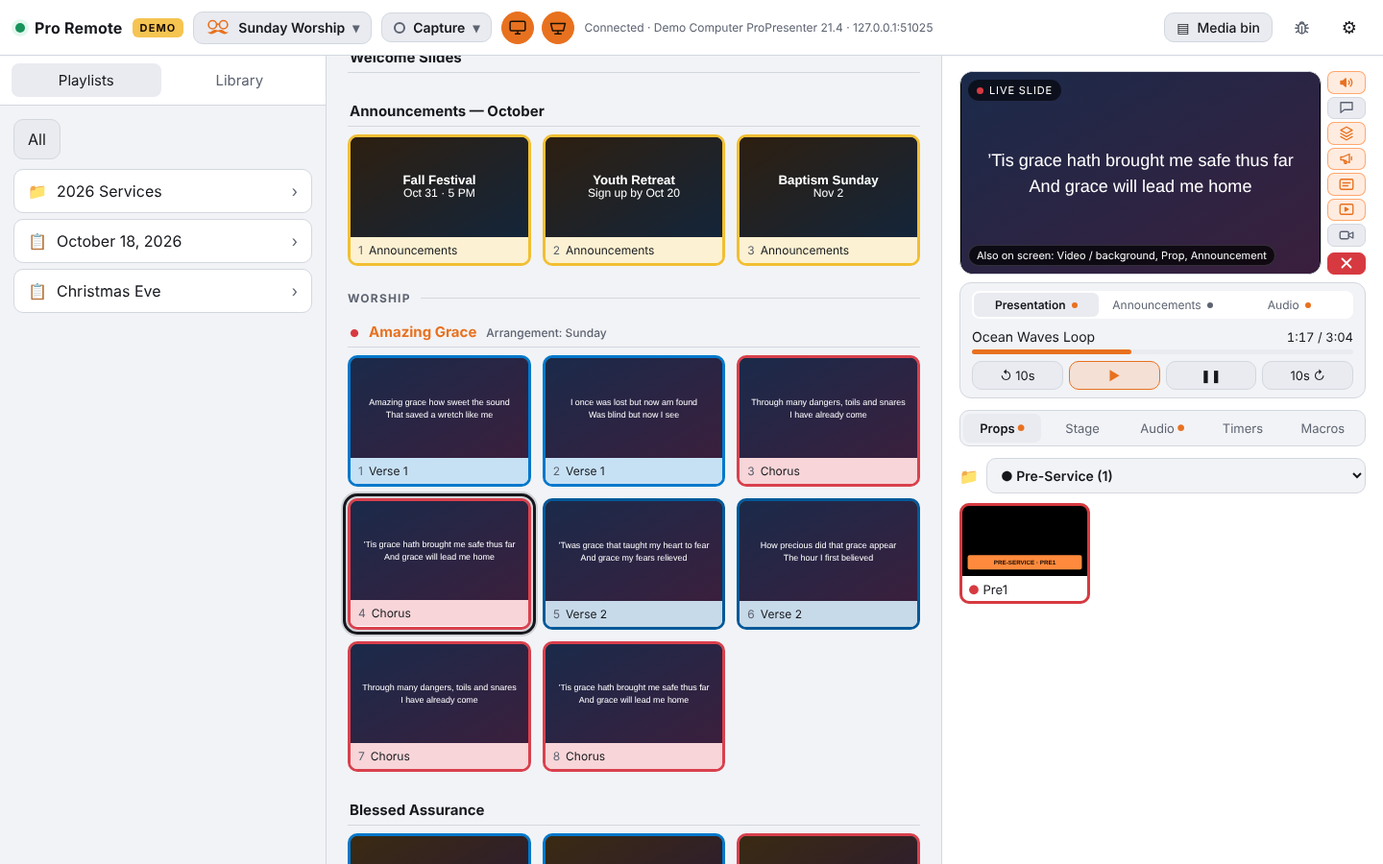
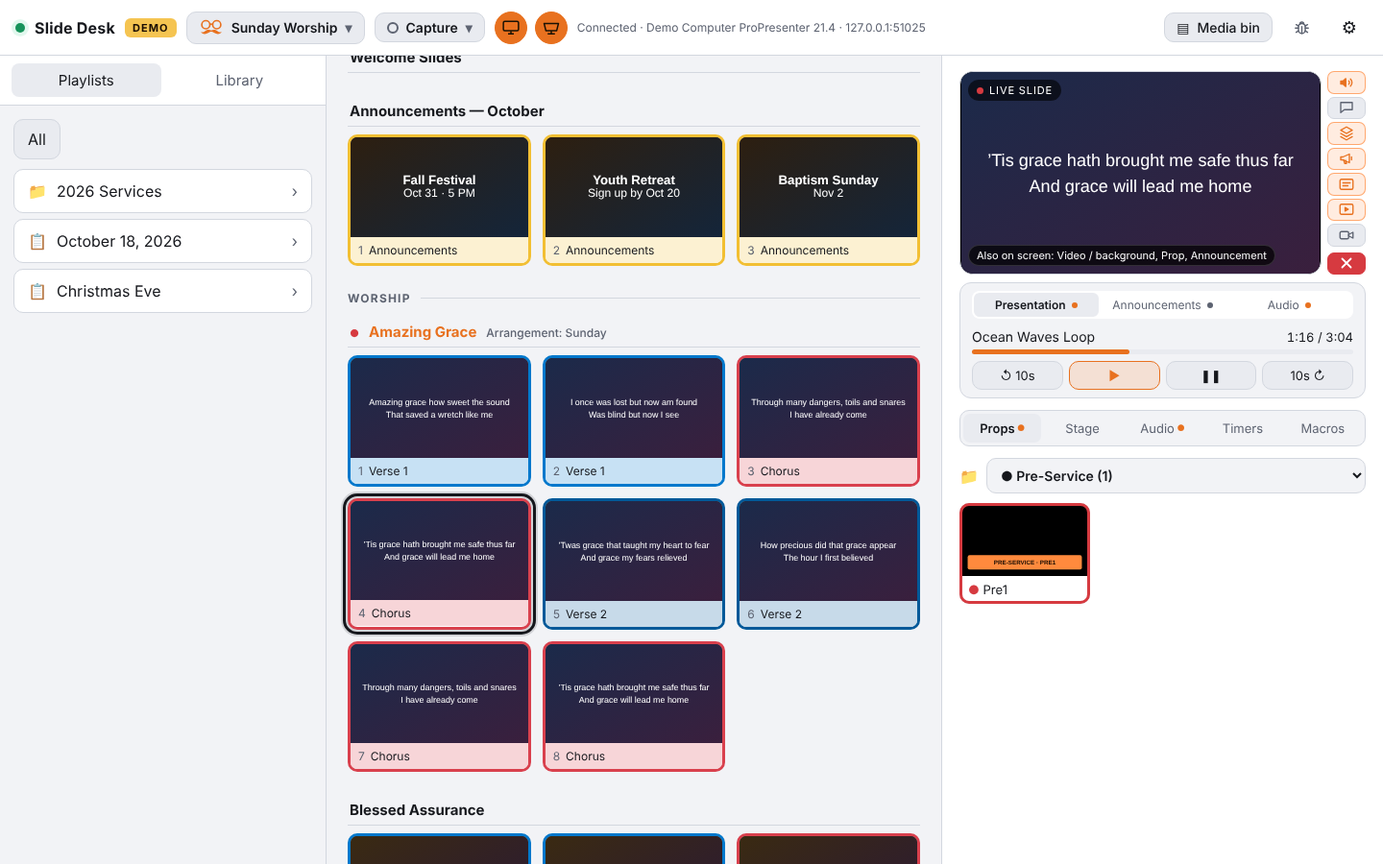
1.2.1: Pro Remote is now Slide Desk
Claude-Session: https://claude.ai/code/session_01Dq74AqC8JHTZvVWnvzxfSY

Changed region(s): [[0.2812, 0.0, 0.5938, 0.0622], [0.0312, 0.0, 0.25, 0.0622], [0.625, 0.0311, 0.6562, 0.0622]]

diff --git a/server.js b/server.js
@@ -1,5 +1,5 @@
 #!/usr/bin/env node
-// Pro Remote · Copyright (C) 2026 Gavin Peppers · Contributors: Crossroads Community Church, Athens, GA
+// Slide Desk · Copyright (C) 2026 Gavin Peppers · Contributors: Crossroads Community Church, Athens, GA
 // SPDX-License-Identifier: GPL-3.0-or-later  (see LICENSE.txt and COPYRIGHT.txt)
 /*
  * ProPresenter Network Remote
@@ -18,12 +18,14 @@ const path = require('path');
 const os = require('os');
 
 // The demo keeps its own settings file so it never touches your real setup
-const APP_VERSION = '1.2';   // keep in step with PAGE_VERSION in public/index.html
+const APP_VERSION = '1.2.1';   // keep in step with PAGE_VERSION in public/index.html
 // Where settings and saved reports live: next to this file, or (for the Mac app) in the user's
-// Application Support folder, passed in as PRO_REMOTE_DATA
-const DATA_DIR = process.env.PRO_REMOTE_DATA || __dirname;
-const CONFIG_FILE = process.env.PRO_REMOTE_CONFIG || path.join(DATA_DIR, 'config.json');
-const DEMO = !!process.env.PRO_REMOTE_DEMO;
+// Application Support folder, passed in as SLIDE_DESK_DATA
+// (Slide Desk used to be called Pro Remote: the old PRO_REMOTE_* names still work)
+const env = name => process.env['SLIDE_DESK_' + name] ?? process.env['PRO_REMOTE_' + name];
+const DATA_DIR = env('DATA') || __dirname;
+const CONFIG_FILE = env('CONFIG') || path.join(DATA_DIR, 'config.json');
+const DEMO = !!env('DEMO');
 const DEFAULTS = {
   proHost: '127.0.0.1', // where ProPresenter is running
   proPort: 1025,        // ProPresenter > Settings > Network > Port
@@ -57,7 +59,7 @@ if (config.pin && !config.users.length) {
   config.pinMoved = true;
 }
 if ('pin' in config) { delete config.pin; saveConfig(); }
-// A new install starts protected: an Admin with a made-up PIN, shown in the Pro Remote window
+// A new install starts protected: an Admin with a made-up PIN, shown in the Slide Desk window
 // until it's changed. (Not a fixed default PIN: that would be printed for anyone to read.)
 if (firstRun && !DEMO && !config.users.length) {
   const pin = String(require('crypto').randomInt(100000, 1000000));
@@ -341,12 +343,12 @@ const reports = (() => {
   function asText(r) {
     const p = r.page || {}, live = p.live || {};
     const lines = [
-      `${r.demo ? '[DEMO] ' : ''}Pro Remote problem report`, `When: ${r.when}`, '',
+      `${r.demo ? '[DEMO] ' : ''}Slide Desk problem report`, `When: ${r.when}`, '',
       'WHAT HAPPENED', r.what || '(not filled in)', '',
       'WHAT THEY WERE TRYING TO DO', r.trying || '(not filled in)', '',
       `From: ${r.name || '(no name)'}${r.email ? ' <' + r.email + '>' : ''}`, '',
       'SETUP',
-      `Pro Remote ${r.remote.appVersion}`, `Helper computer: ${r.remote.helperComputer}`,
+      `Slide Desk ${r.remote.appVersion}`, `Helper computer: ${r.remote.helperComputer}`,
       r.remote.signedInAs ? `Signed in as: ${r.remote.signedInAs}` : null,
       `ProPresenter: ${r.remote.proPresenter}`, `Connected: ${r.remote.connected} · Updates: ${r.remote.liveUpdates}`,
       r.remote.helperError ? `Helper error: ${r.remote.helperError}` : '',
@@ -365,7 +367,7 @@ const reports = (() => {
     const r = JSON.parse(fs.readFileSync(path.join(OUTBOX, id + '.json'), 'utf8'));
     const shotFile = path.join(OUTBOX, id + '.jpg');
     const shot = fs.existsSync(shotFile) ? fs.readFileSync(shotFile) : null;
-    const subject = `${r.demo ? '[DEMO] ' : ''}Pro Remote problem: ${(r.what || 'no description').replace(/\s+/g, ' ').slice(0, 70)}`;
+    const subject = `${r.demo ? '[DEMO] ' : ''}Slide Desk problem: ${(r.what || 'no description').replace(/\s+/g, ' ').slice(0, 70)}`;
     const text = asText(r);
     const ctrl = new AbortController(), t = setTimeout(() => ctrl.abort(), 30000);
     try {
@@ -378,6 +380,7 @@ const reports = (() => {
         fd.append('Report', text);
         if (shot) fd.append('attachment', new Blob([shot], { type: 'image/jpeg' }), `screenshot-${id}.jpg`);
         res = await fetch(s.endpoint || `https://formsubmit.co/${encodeURIComponent(s.sendTo)}`, { method: 'POST', body: fd, signal: ctrl.signal, redirect: 'manual',
+          // (kept from when Slide Desk was called Pro Remote: the email service is set up for this address)
           headers: { Referer: 'http://pro-remote.local/', Origin: 'http://pro-remote.local' } });
         return res.status < 400;
       }
@@ -385,7 +388,7 @@ const reports = (() => {
         // Web3Forms free plan can't attach files: the screenshot stays in the reports folder on this computer
         res = await fetch('https://api.web3forms.com/submit', { method: 'POST', signal: ctrl.signal,
           headers: { 'Content-Type': 'application/json', Accept: 'application/json' },
-          body: JSON.stringify({ access_key: s.accessKey, subject, from_name: 'Pro Remote', replyto: r.email || undefined,
+          body: JSON.stringify({ access_key: s.accessKey, subject, from_name: 'Slide Desk', replyto: r.email || undefined,
             message: text + (shot ? `\n\n(Screenshot saved on the helper computer: reports/sent/${id}.jpg)` : '') }) });
         return res.ok;
       }
@@ -469,8 +472,8 @@ function readBody(req, limit = 1e6) {
 const LEVELS = ['viewer', 'slides', 'operator', 'admin'];
 const LEVEL_NAMES = { viewer: 'Viewer', slides: 'Slides only', operator: 'Operator', admin: 'Admin' };
 const lv = level => Math.max(0, LEVELS.indexOf(level));
-const SIGN_OUT_AFTER = Number(process.env.PRO_REMOTE_IDLE_MS) || 3 * 24 * 3600e3;   // 3 days without use
-const LOCAL_ADMIN = !process.env.PRO_REMOTE_NO_LOCAL_ADMIN;                         // (switched off only in tests)
+const SIGN_OUT_AFTER = Number(env('IDLE_MS')) || 3 * 24 * 3600e3;   // 3 days without use
+const LOCAL_ADMIN = !env('NO_LOCAL_ADMIN');                              // (switched off only in tests)
 const SESSIONS_FILE = CONFIG_FILE.replace(/\.json$/i, '') + '-sessions.json';
 
 let sessions = {};   // token -> { name, lastActive }
@@ -545,7 +548,7 @@ function needLevel(method, t) {
 // Wrong PINs: after 5 from one computer, it waits a minute
 const failedSignIns = new Map();   // ip -> { n, until }
 
-// Adding and changing people (from the Pro Remote window, or by an Admin in Settings)
+// Adding and changing people (from the Slide Desk window, or by an Admin in Settings)
 function changeUsers(op, a, by) {
   const users = config.users;
   const name = String(a.name || '').trim().replace(/\s+/g, ' ');
@@ -1011,8 +1014,8 @@ if (commandsOn) {
 
 server.listen(config.remotePort, '0.0.0.0', () => {
   const addrs = lanAddresses();
-  console.log(DEMO ? '\n  Pro Remote DEMO is running (pretend ProPresenter with sample songs, nothing real is controlled)\n'
-                   : `\n  Pro Remote ${APP_VERSION} is running\n`);
+  console.log(DEMO ? '\n  Slide Desk DEMO is running (pretend ProPresenter with sample songs, nothing real is controlled)\n'
+                   : `\n  Slide Desk ${APP_VERSION} is running\n`);
   console.log(`  Talking to ProPresenter at ${config.proHost}:${config.proPort}`);
   console.log('  Open the remote from any computer on this network:');
   for (const a of addrs) console.log(`     http://${a}:${config.remotePort}`);

diff --git a/public/index.html b/public/index.html
@@ -1,5 +1,5 @@
 <!doctype html>
-<!-- Pro Remote · Copyright (C) 2026 Gavin Peppers · Contributors: Crossroads Community Church, Athens, GA · SPDX-License-Identifier: GPL-3.0-or-later -->
+<!-- Slide Desk · Copyright (C) 2026 Gavin Peppers · Contributors: Crossroads Community Church, Athens, GA · SPDX-License-Identifier: GPL-3.0-or-later -->
 <html lang="en">
 <head>
 <meta charset="utf-8">
@@ -23,11 +23,11 @@
 </script>
 <meta name="apple-mobile-web-app-capable" content="yes">
 <meta name="apple-mobile-web-app-status-bar-style" content="black-translucent">
-<meta name="apple-mobile-web-app-title" content="Pro Remote">
+<meta name="apple-mobile-web-app-title" content="Slide Desk">
 <link rel="manifest" href="manifest.webmanifest">
 <link rel="icon" href="icon.svg">
 <link rel="apple-touch-icon" href="icon-180.png">
-<title>Pro Remote</title>
+<title>Slide Desk</title>
 <style>
   :root {
     --bg: #0e0f12; --panel: #17191e; --panel-2: #1f2229; --line: #2a2e37;
@@ -502,7 +502,7 @@
 <div id="staleBar" class="stale-bar" hidden>The remote has been updated. <button onclick="location.reload()">Refresh to get the new version</button></div>
 <header>
   <span class="dot" id="dot"></span>
-  <h1>Pro Remote</h1>
+  <h1>Slide Desk</h1>
   <span id="demoTag" class="demo-tag" hidden title="This is a demo: a pretend ProPresenter with sample songs. Nothing real is being controlled.">DEMO</span>
   <div class="look-wrap">
     <button id="lookBtn" class="look-btn" title="Looks" aria-haspopup="true" aria-expanded="false">
@@ -701,7 +701,7 @@
       <div class="rep-fallback" id="repFallback" hidden>
         <button id="repCopy">Copy report</button>
         <a class="btn-like" id="repMail" hidden>Open in email app</a>
-        <a class="btn-like" id="repShotDl" download="pro-remote-screenshot.jpg" hidden>Save screenshot</a>
+        <a class="btn-like" id="repShotDl" download="slide-desk-screenshot.jpg" hidden>Save screenshot</a>
       </div>
       <div class="actions"><button class="primary" id="repClose">Done</button></div>
     </div>
@@ -769,7 +769,7 @@
       <div class="hk-list" id="hkList"></div>
       <button id="hkReset" style="margin-top:8px">Reset hotkeys</button>
       </details>
-    <p class="disclaimer"><b>Pro Remote 1.2</b> · Pro Remote is an independent, open-source project (GNU GPL v3). It is not made, supported or endorsed by Renewed Vision, and is not affiliated with or in partnership with them. ProPresenter is a trademark of Renewed Vision. For help with Pro Remote, use the bug button, not Renewed Vision support.</p>
+    <p class="disclaimer"><b>Slide Desk 1.2.1</b> · Slide Desk is an independent, open-source project (GNU GPL v3). It is not made, supported or endorsed by Renewed Vision, and is not affiliated with or in partnership with them. ProPresenter is a trademark of Renewed Vision. For help with Slide Desk, use the bug button, not Renewed Vision support.</p>
     <div class="actions">
       <button id="settingsCancel">Cancel</button>
       <button class="primary" id="settingsSave">Save</button>
@@ -822,12 +822,12 @@
     <svg class="signin-icon" aria-hidden="true" xmlns="http://www.w3.org/2000/svg" viewBox="0 0 1024 1024"><defs><linearGradient id="signinBg" x1="0" y1="0" x2="0" y2="1"><stop offset="0" stop-color="#ffa45c"/><stop offset="1" stop-color="#ec5f16"/></linearGradient></defs><rect x="100" y="100" width="824" height="824" rx="185" fill="url(#signinBg)"/><rect x="290" y="226" width="460" height="290" rx="34" fill="#1a1205" opacity=".22"/>
 <rect x="232" y="288" width="460" height="290" rx="34" fill="#1b1d23"/>
 <rect x="282" y="364" width="280" height="30" rx="15" fill="#fff"/><rect x="282" y="424" width="200" height="30" rx="15" fill="#fff" opacity=".55"/><circle cx="632" cy="662" r="132" fill="#fff"/><path d="M598 602 L678 662 L598 722 Z" fill="#ec5f16" stroke="#ec5f16" stroke-width="22" stroke-linejoin="round"/><path d="M777.8 548.1 A185 185 0 0 1 777.8 775.9" fill="none" stroke="#fff" stroke-width="30" stroke-linecap="round" opacity="1"/><path d="M825.1 511.2 A245 245 0 0 1 825.1 812.8" fill="none" stroke="#fff" stroke-width="30" stroke-linecap="round" opacity="0.55"/></svg>
-    <h2 id="signinTitle">Pro Remote</h2>
+    <h2 id="signinTitle">Slide Desk</h2>
     <p class="signin-why" id="pinWhy">Type your PIN to sign in.</p>
     <input id="pinInput" type="password" inputmode="numeric" autocomplete="off" aria-label="Your PIN" placeholder="PIN">
     <div class="small" id="pinErr"></div>
     <button class="primary" id="pinSubmit">Sign in</button>
-    <p class="muted small signin-help">Forgot your PIN or don't have one? Ask your tech lead. Everyone's PIN is listed in the Pro Remote window on the computer running the remote (type <b>users</b> there).</p>
+    <p class="muted small signin-help">Forgot your PIN or don't have one? Ask your tech lead. Everyone's PIN is listed in the Slide Desk window on the computer running the remote (type <b>users</b> there).</p>
   </div>
 </div>
 
@@ -861,7 +861,7 @@
     if (/trigger|\/clear|\/(next|previous)$|\/operation|\/(start|stop|reset)$|\/stage\/screen\/[^/]+\/layout\/[^/?]+|\/transport\/[^/]+\/(play|pause|skip_forward|skip_backward|go_to_end)/.test(t)) return 'operator';
     return 'viewer';
   }
-  const PAGE_VERSION = '1.2';   // must match APP_VERSION in server.js
+  const PAGE_VERSION = '1.2.1';   // must match APP_VERSION in server.js
   let live = {};               // latest state from server
   let pres = null;             // active presentation detail
   let presUuid = null;
@@ -3114,7 +3114,7 @@
     };
     const mail = $('#repMail');
     mail.hidden = !fallback.sendTo;
-    if (fallback.sendTo) mail.href = `mailto:${fallback.sendTo}?subject=${encodeURIComponent('Pro Remote problem report')}&body=${encodeURIComponent(fallback.text.slice(0, 1800))}`;
+    if (fallback.sendTo) mail.href = `mailto:${fallback.sendTo}?subject=${encodeURIComponent('Slide Desk problem report')}&body=${encodeURIComponent(fallback.text.slice(0, 1800))}`;
     const dl = $('#repShotDl');
     dl.hidden = !fallback.shot; if (fallback.shot) dl.href = fallback.shot;
   }
@@ -3367,7 +3367,7 @@
 
   // ---------- live updates ----------
   let es;
-  // This remote checks in every 15 s so the Pro Remote window knows it's still open
+  // This remote checks in every 15 s so the Slide Desk window knows it's still open
   // (a computer that goes to sleep or drops off the network is noticed within a minute).
   const cid = Math.random().toString(36).slice(2, 10);
   // Pressing anything counts as using the remote (after 3 days without use it asks for the PIN again)

diff --git a/demo/start-demo.js b/demo/start-demo.js
@@ -1,8 +1,8 @@
 #!/usr/bin/env node
-// Pro Remote · Copyright (C) 2026 Gavin Peppers · Contributors: Crossroads Community Church, Athens, GA
+// Slide Desk · Copyright (C) 2026 Gavin Peppers · Contributors: Crossroads Community Church, Athens, GA
 // SPDX-License-Identifier: GPL-3.0-or-later  (see LICENSE.txt and COPYRIGHT.txt)
 /*
- * Pro Remote DEMO: runs a pretend ProPresenter (sample songs, playlists, props, Looks, media)
+ * Slide Desk DEMO: runs a pretend ProPresenter (sample songs, playlists, props, Looks, media)
  * and the real remote pointed at it. Nothing real is controlled. Uses its own settings file.
  * Run:  node demo/start-demo.js   (or double-click "Start Demo")
  */
@@ -54,12 +54,12 @@ fake.on('error', e => {
 
 fake.listen(FAKE_PORT, '127.0.0.1', () => {
   Object.assign(process.env, {
-    PRO_REMOTE_DEMO: '1',
+    SLIDE_DESK_DEMO: '1',
     PRO_HOST: '127.0.0.1',
     PRO_PORT: String(FAKE_PORT),
     REMOTE_PORT: String(REMOTE_PORT),
     REMOTE_PIN: '',
-    PRO_REMOTE_CONFIG: path.join(__dirname, 'demo-config.json'),
+    SLIDE_DESK_CONFIG: path.join(__dirname, 'demo-config.json'),
     OPEN_BROWSER: '1'
   });
   require('../server.js');

diff --git a/demo/fake-propresenter.js b/demo/fake-propresenter.js
@@ -1,7 +1,7 @@
-// Pro Remote · Copyright (C) 2026 Gavin Peppers · Contributors: Crossroads Community Church, Athens, GA
+// Slide Desk · Copyright (C) 2026 Gavin Peppers · Contributors: Crossroads Community Church, Athens, GA
 // SPDX-License-Identifier: GPL-3.0-or-later  (see LICENSE.txt and COPYRIGHT.txt)
 /*
- * Pretend ProPresenter used by the Pro Remote demos (sample songs, playlists, props, Looks, media...).
+ * Pretend ProPresenter used by the Slide Desk demos (sample songs, playlists, props, Looks, media...).
  * Answers the same requests as ProPresenter's network API. Runs in Node (Start Demo) and in a
  * browser (the online demo). Nothing here talks to a real ProPresenter.
  */

diff --git a/README.md b/README.md
@@ -1,6 +1,6 @@
-# Pro Remote 1.2 — control ProPresenter from another computer
+# Slide Desk 1.2.1 — control ProPresenter from another computer
 
-![Pro Remote showing a playlist in Continuous view](docs/screenshot.png)
+![Slide Desk showing a playlist in Continuous view](docs/screenshot.png)
 
 **Download:** click the green **Code** button above → **Download ZIP**, unzip it, and follow *Setup* below. Or try it first with the **Start Demo** files (no ProPresenter needed).
 
@@ -43,7 +43,7 @@ Each person signs in with **their own PIN**, and each person has a **level**:
 
 The remote hides what a level can't use, and the helper program refuses it too.
 
-- **First start:** a new install makes an **Admin** with a made-up PIN and shows it in the Pro Remote window every time it starts, until you change it. Sign in with it, then add your team.
+- **First start:** a new install makes an **Admin** with a made-up PIN and shows it in the Slide Desk window every time it starts, until you change it. Sign in with it, then add your team.
 - **Signing in:** a computer asks for a PIN once and remembers it. A remote that isn't used for **3 days** asks again (opening it or pressing anything counts as use; just leaving it open doesn't). Settings → Access shows who's signed in, with **Sign out**.
 - **One computer at a time:** each person (except Admins) can be signed in on one computer at a time. A PIN never signs anyone out, so nobody can take over someone's remote with their PIN. If that person is already signed in somewhere, the PIN is refused ("This PIN is already in use on another computer"). It works again once they sign out there, an Admin signs them out (Settings → Access → People), or 3 days pass without use. Admins can be signed in on as many computers as they like.
 - **The computer running the remote never needs a PIN** (it's always Admin), so you can't lock yourself out.
@@ -53,8 +53,8 @@ The remote hides what a level can't use, and the helper program refuses it too.
 - **Don't want PINs at all?** Remove everyone (Admin last). With nobody added, anyone on the network can use the remote with no PIN.
 - **Updating from an earlier version:** the old shared PIN becomes a person called *Admin* with the same PIN. With no PIN before, the remote stays open to everyone until you add someone.
 
-### Commands in the Pro Remote window
-The Pro Remote window (the Terminal window on the computer running the remote) takes commands. Type one and press Enter:
+### Commands in the Slide Desk window
+The Slide Desk window (the Terminal window on the computer running the remote) takes commands. Type one and press Enter:
 - `users` lists everyone, their level and PIN
 - `add Sarah operator` adds Sarah and makes up a PIN for her (`add Sarah 2580 operator` to choose it). Levels: `viewer`, `slides`, `operator`, `admin`
 - `pin Sarah 2580` gives Sarah a new PIN
@@ -64,9 +64,9 @@ The Pro Remote window (the Terminal window on the computer running the remote) t
 - `remotes` (or `who`, or `connections`) shows how many remotes are open, who's on them and which computers they're on. The window also notes each one as it opens or closes; one that drops off (like a computer going to sleep) shows as "stopped responding" within a minute
 - `help` lists the commands
 
-**Forgot your PIN?** Ask whoever is at the ProPresenter computer to type `users` in the Pro Remote window.
+**Forgot your PIN?** Ask whoever is at the ProPresenter computer to type `users` in the Slide Desk window.
 
-The Pro Remote window also logs who did what ("Sarah  GET /v1/trigger/next"), and problem reports say who sent them. PINs never go into problem reports. This keeps volunteers in their lane on your local network. It isn't bank-level security: the remote uses plain http, so someone determined on the same network could watch a PIN go by.
+The Slide Desk window also logs who did what ("Sarah  GET /v1/trigger/next"), and problem reports say who sent them. PINs never go into problem reports. This keeps volunteers in their lane on your local network. It isn't bank-level security: the remote uses plain http, so someone determined on the same network could watch a PIN go by.
 
 ## Report a problem
 Click the **bug** button in the top bar (next to ⚙). The remote takes a screenshot of itself first, then asks what happened and what you were trying to do (name and reply email are optional). Along with it go the setup details (remote and ProPresenter versions, Mac/Windows, browser), what was on screen at the time, recent problems on the page, and the last 60 lines of the Terminal log. You can see everything before sending, and untick the screenshot. The PIN and stream keys are never included.
@@ -79,21 +79,28 @@ Click the **bug** button in the top bar (next to ⚙). The remote takes a scr
 ## Try it without ProPresenter (demo)
 Double-click **Start Demo (Mac).command** or **Start Demo (Windows).bat**. It runs the real remote against a pretend ProPresenter with sample songs, playlists, props, Looks and media, and opens it in your browser at `http://localhost:8090`. Nothing real is controlled, a yellow **DEMO** tag shows in the top bar, and the demo keeps its own settings (your real setup isn't touched). Needs Node.js, like the real remote. Close the window to stop it.
 
+## Updating from Pro Remote
+Slide Desk used to be called **Pro Remote**. It was renamed so it isn't confused with Renewed Vision's own *ProPresenter Remote* app. Nothing else changed.
+- **Mac:** install Slide Desk from the new .dmg, then drag the old **Pro Remote** app from Applications to the Trash. The first time Slide Desk opens, it moves your settings, people and PINs over from Pro Remote automatically.
+- **Windows:** replace the folder with the new one, then double-click **Install Slide Desk (Windows).bat** once. It removes the old Pro Remote shortcuts and adds Slide Desk ones. If your settings were in the old folder, copy its `config.json` (and `config-sessions.json`) into the new folder first.
+- Team computers that saved the remote as an app: remove the old *Pro Remote* one and add it again (it'll be called Slide Desk).
+- The address and port (4316) don't change, so bookmarks keep working.
+
 ## Setup (one time, about 5 minutes)
 
 1. **Turn on ProPresenter's network API.** ProPresenter → Settings → **Network** → check **Enable Network**. Note the port shown (often 1025, 50001, etc.). Requires ProPresenter 7.9 or newer.
 2. **Install Node.js** (free) on the ProPresenter computer from https://nodejs.org — choose the LTS version.
 3. **Install and start the remote** on the ProPresenter computer:
-   - **Mac:** open the **Pro Remote .dmg** disk image (from the project's Releases page) and drag **Pro Remote** onto **Applications** in the window that appears (and onto the Dock if you like), then open it. The first time, macOS says it can't verify the app: click Done, then System Settings → Privacy & Security → **Open Anyway**. Pro Remote opens a Terminal window that runs the remote. Its settings are kept in *~/Library/Application Support/Pro Remote*, so updating the app keeps them.
-   - **Windows:** put this folder somewhere permanent (for example *Documents*), then double-click **Install Pro Remote (Windows).bat** once. It adds **Pro Remote** with its icon to the Start menu and the desktop (right-click it in Start → Pin to taskbar). Open it from there from now on.
-   - You can still start it the old way with **Start Remote (Mac).command** / **Start Remote (Windows).bat**.
+   - **Mac:** open the **Slide Desk .dmg** disk image (from the project's Releases page) and drag **Slide Desk** onto **Applications** in the window that appears (and onto the Dock if you like), then open it. The first time, macOS says it can't verify the app: click Done, then System Settings → Privacy & Security → **Open Anyway**. Slide Desk opens a Terminal window that runs the remote. Its settings are kept in *~/Library/Application Support/Slide Desk*, so updating the app keeps them.
+   - **Windows:** put this folder somewhere permanent (for example *Documents*), then double-click **Install Slide Desk (Windows).bat** once. It adds **Slide Desk** with its icon to the Start menu and the desktop (right-click it in Start → Pin to taskbar). Open it from there from now on.
+   - You can still start it the old way with **Start Slide Desk (Mac).command** / **Start Slide Desk (Windows).bat**.
    The window shows an address like `http://192.168.1.50:4316`. Keep that window open while you use the remote.
 4. **On the computer you'll control from**, open that address in Chrome, Edge or Safari (same network as ProPresenter). Press F11 (Windows) or Ctrl+Cmd+F (Mac) for full screen.
 5. Tap **⚙** and enter ProPresenter's port from step 1 (leave the IP as `127.0.0.1` if the remote runs on the ProPresenter computer). The dot turns green when connected.
-6. **Sign in and add your team:** the Pro Remote window shows the Admin PIN. Sign in with it on your control computer, then open **⚙ Settings → Access** to change your PIN and add people. (Skip this if you don't want PINs; see *Who can use the remote*.)
+6. **Sign in and add your team:** the Slide Desk window shows the Admin PIN. Sign in with it on your control computer, then open **⚙ Settings → Access** to change your PIN and add people. (Skip this if you don't want PINs; see *Who can use the remote*.)
 
 ### Add the remote to your team's computers
-The computers you control from don't install anything; they just open the address. To give them a **Pro Remote** icon that opens in its own window:
+The computers you control from don't install anything; they just open the address. To give them a **Slide Desk** icon that opens in its own window:
 - **Safari (Mac):** open the remote, then **File → Add to Dock**.
 - **Chrome / Edge (Mac or Windows):** open the remote, then **⋮ → Cast, save and share → Create shortcut…**, tick **Open as window**, and click Create. It appears in Applications / the Start menu.
 
@@ -103,7 +110,7 @@ ProPresenter doesn't share a Planning Center plan's item list with other apps. O
 ## How it fits together
 
 ```
- Control computer's browser ──►  Pro Remote (this folder, port 4316)  ──►  ProPresenter API
+ Control computer's browser ──►  Slide Desk (this folder, port 4316)  ──►  ProPresenter API
 ```
 Browsers aren't allowed to talk to ProPresenter directly from a web page, so the small helper in this folder (`server.js`) serves the HTML remote and passes its commands along. It has no dependencies and can run on the ProPresenter machine or any other computer on the network (just point ⚙ at ProPresenter's IP).
 
@@ -117,7 +124,7 @@ Browsers aren't allowed to talk to ProPresenter directly from a web page, so the
 ## License
 Created by Gavin Peppers, with Crossroads Community Church (Athens, GA) as a contributor.
 
-Pro Remote is free, open-source software under the **GNU General Public License v3** (or any later version); see `LICENSE.txt` and `COPYRIGHT.txt`. In short: anyone may use, copy, change and share it, and may even charge for copies, but anyone who shares it, changed or not, must share the source code under the same GPL license and keep the copyright notices. No one can turn it into a closed, proprietary product. It comes with no warranty.
+Slide Desk is free, open-source software under the **GNU General Public License v3** (or any later version); see `LICENSE.txt` and `COPYRIGHT.txt`. In short: anyone may use, copy, change and share it, and may even charge for copies, but anyone who shares it, changed or not, must share the source code under the same GPL license and keep the copyright notices. No one can turn it into a closed, proprietary product. It comes with no warranty.
 
 ## Disclaimer
-Pro Remote is an independent, open-source project. It is not made, supported or endorsed by Renewed Vision, and is not affiliated with or in partnership with them. ProPresenter is a trademark of Renewed Vision. Please don't contact Renewed Vision support about Pro Remote.
+Slide Desk is an independent, open-source project. It is not made, supported or endorsed by Renewed Vision, and is not affiliated with or in partnership with them. ProPresenter is a trademark of Renewed Vision. Please don't contact Renewed Vision support about Slide Desk.

diff --git a/CONTRIBUTING.md b/CONTRIBUTING.md
@@ -1,6 +1,6 @@
-# Contributing to Pro Remote
+# Contributing to Slide Desk
 
-Thanks for helping! Pro Remote is a volunteer, church-built project.
+Thanks for helping! Slide Desk is a volunteer, church-built project.
 
 - **Found a bug?** Open an issue (there's a template), or use the bug button inside the remote and attach what it saved. Include your ProPresenter version.
 - **Have an idea?** Open a feature request issue.
@@ -8,7 +8,7 @@ Thanks for helping! Pro Remote is a volunteer, church-built project.
 
 ## Making a release (maintainers)
 1. Bump the version in `server.js` (`APP_VERSION`) and `public/index.html` (`PAGE_VERSION`) and add a section to `CHANGELOG.md`.
-2. On a Mac, open the **tools** folder and double-click **Build Mac Installer.command**. It makes **dist/Pro Remote <version>.dmg** with the "drag Pro Remote to Applications" window (the first time, allow Terminal to control Finder). Build it on a Mac: an app built elsewhere asks Apple Silicon Macs to install Rosetta.
+2. On a Mac, open the **tools** folder and double-click **Build Mac Installer.command**. It makes **dist/Slide Desk <version>.dmg** with the "drag Slide Desk to Applications" window (the first time, allow Terminal to control Finder). Build it on a Mac: an app built elsewhere asks Apple Silicon Macs to install Rosetta.
 3. On GitHub: Releases → Create a new release → tag `v<version>` → attach the .dmg → Publish.
 
 (`tools/make-mac-app.sh` builds just the app into `dist/`.)

diff --git a/CHANGELOG.md b/CHANGELOG.md
@@ -1,5 +1,11 @@
 # Changelog
 
+## 1.2.1 — 2026-10-14
+- **Pro Remote is now Slide Desk.** Renamed so it isn't confused with Renewed Vision's own ProPresenter Remote app. Nothing else changed.
+- Mac: the app is now **Slide Desk.app**, and the first time it opens it moves your settings, people and PINs over from Pro Remote. Drag the old Pro Remote app to the Trash.
+- Windows: **Install Slide Desk (Windows).bat** removes the old Pro Remote shortcuts and adds Slide Desk ones. The start files are now **Start Slide Desk (Mac).command** and **Start Slide Desk (Windows).bat**.
+- Start-up settings are now named SLIDE_DESK_* (the old PRO_REMOTE_* names still work).
+
 ## 1.2 — 2026-10-13
 - **Personal PINs and access levels.** Each person signs in with their own PIN and has a level: Viewer (watch only), Slides only (slides and Clear), Operator (runs the service) or Admin (everything, including Looks editing, screens on/off, capture, the connection and people). The remote hides what a level can't use, and the helper refuses it.
 - A remote not used for 3 days asks for the PIN again.

diff --git a/.github/ISSUE_TEMPLATE/bug_report.md b/.github/ISSUE_TEMPLATE/bug_report.md
@@ -1,6 +1,6 @@
 ---
 name: Bug report
-about: Something in Pro Remote isn't working
+about: Something in Slide Desk isn't working
 labels: bug
 ---
 
@@ -8,12 +8,12 @@ labels: bug
 
 **What were you trying to do?**
 
-**Pro Remote version** (bottom of ⚙ Settings):
+**Slide Desk version** (bottom of ⚙ Settings):
 **ProPresenter version:**
 **Computer running the remote** (Mac / Windows):
 **Browser used to open it:**
 
-**Terminal lines** (copy the lines from the Start Remote window around when it happened):
+**Terminal lines** (copy the lines from the Slide Desk window around when it happened):
 ```
 ```
 

diff --git a/.github/ISSUE_TEMPLATE/feature_request.md b/.github/ISSUE_TEMPLATE/feature_request.md
@@ -1,6 +1,6 @@
 ---
 name: Feature request
-about: Suggest something for Pro Remote
+about: Suggest something for Slide Desk
 labels: enhancement
 ---
 
